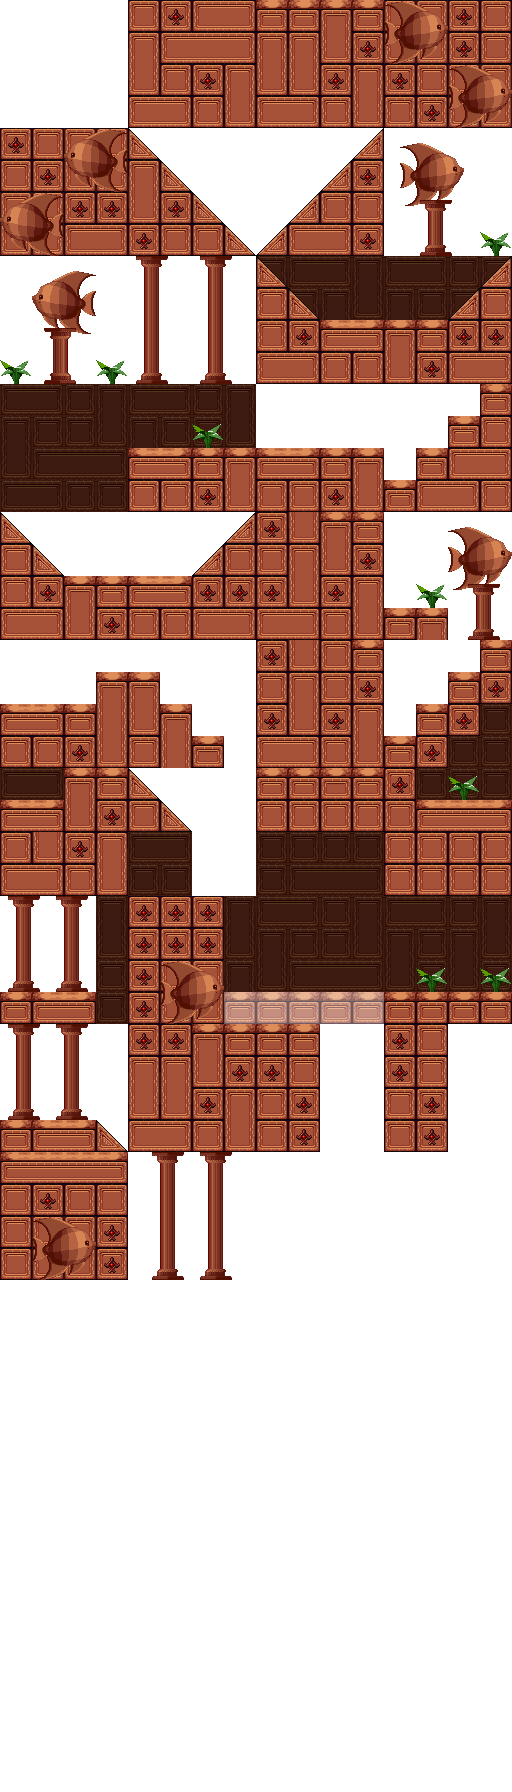
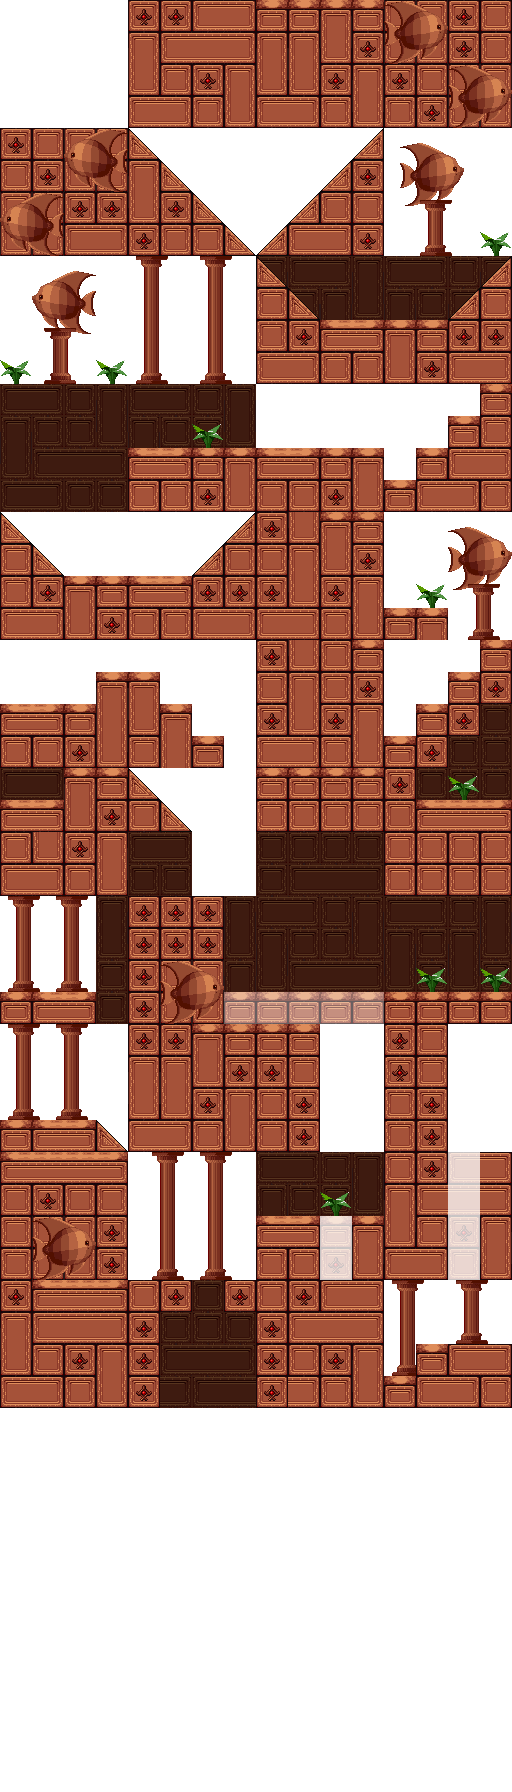
Fix single-tile parallax, add parallax to AOZ

Changed region(s): [[0.0, 0.625, 1.0, 0.8125]]

diff --git a/src/screen_level.c b/src/screen_level.c
@@ -673,8 +673,12 @@ level_set_clearcolor()
         set_clear_color(LERPC(level_fade, 36),
                         LERPC(level_fade, 0),
                         LERPC(level_fade, 180));
-    else if(level == 6 || level == 7)
+    else if(level == 6 || level == 7) // SWZ
         set_clear_color(0, 0, 0);
+    else if(level == 10 || level == 11) // AOZ
+        set_clear_color(LERPC(level_fade, 56),
+                        LERPC(level_fade, 104),
+                        LERPC(level_fade, 200));
     // R0
     else set_clear_color(LERPC(level_fade, 63),
                          LERPC(level_fade, 0),

diff --git a/src/parallax.c b/src/parallax.c
@@ -142,6 +142,9 @@ parallax_draw(Parallax *prl, Camera *camera)
             // Don't draw if strip is outside screen
             if((wx + strip->width) < 0) continue;
 
+            // If this is a single strip, adjust it and move it forward a bit
+            if(strip->is_single) wx += SCREEN_XRES >> 1;
+
             POLY_FT4 *poly = &prl_pols[prl_current_buffer][si][poly_n];
             setRGB0(poly, level_fade, level_fade, level_fade);
             setXYWH(poly, wx, strip->y0, strip->width, strip->height);
